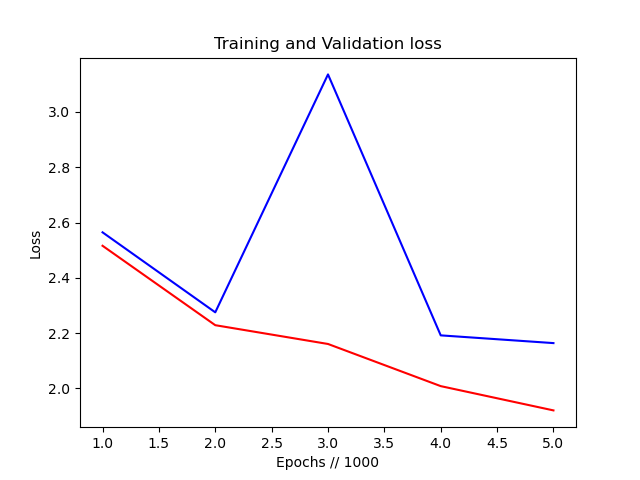
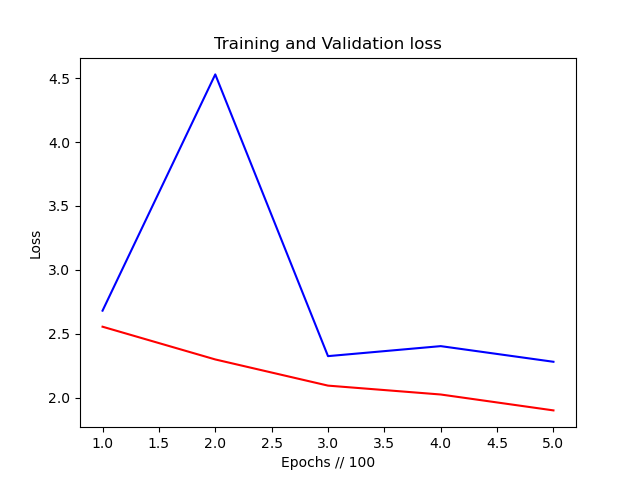
#

diff --git a/model.py b/model.py
@@ -98,7 +98,7 @@ class NetworkTrafficClassifier(object):
         plt.plot(np.arange(1,plot_steps+1), loss_train, 'r', label='Training loss')
         plt.plot(np.arange(1,plot_steps+1), loss_val, 'b', label='validation loss')
         plt.title('Training and Validation loss')
-        plt.xlabel('Epochs // 1000')
+        plt.xlabel('Epochs // {}'.format(plot_step))
         plt.ylabel('Loss')
         plt.savefig(loss_img)
         plt.legend()
@@ -111,7 +111,7 @@ class NetworkTrafficClassifier(object):
         plt.plot(np.arange(1,plot_steps+1), acc_train, 'r', label='Training Accuracy')
         plt.plot(np.arange(1,plot_steps+1), acc_val, 'b', label='validation Accuracy')
         plt.title('Training and Validation Accuracy')
-        plt.xlabel('Epochs // 1000')
+        plt.xlabel('Epochs // {}'.format(plot_step))
         plt.ylabel('Accuracy')
         plt.savefig(acc_img)
         plt.legend()
@@ -169,7 +169,7 @@ class NetworkTrafficClassifier(object):
             self.classifier()
             self.train()
             self.plot_metrics()
-            self.save_model(model_weights)
+            # self.save_model(model_weights)
         self.evaluation()
         # self.predict_classes()
 
